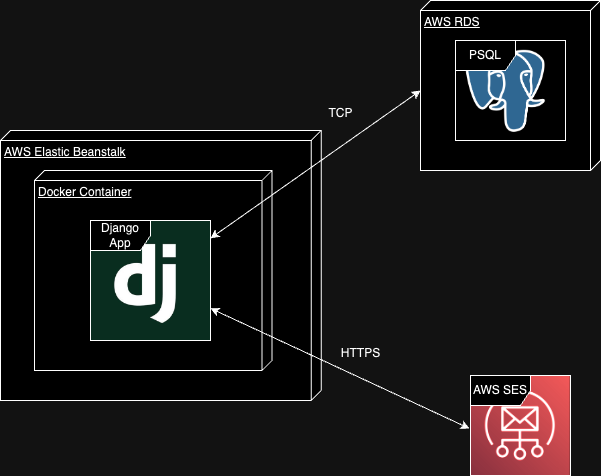
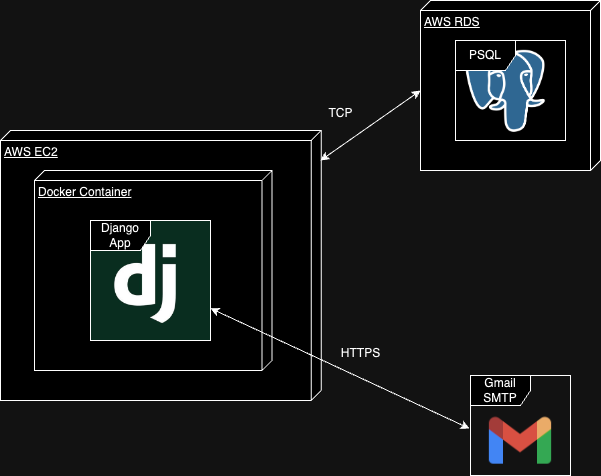
add final details

diff --git a/api/views.py b/api/views.py
@@ -237,6 +237,7 @@ def create_admin_users(request):
     
     if serializer.is_valid():
         user = serializer.save()
+        user.set_password(password)
         user.is_staff = True
         user.save()
         return Response({
@@ -280,7 +281,12 @@ def update_admin_user(request, id):
     except User.DoesNotExist:
         return Response({"detail": "User not found"}, status=status.HTTP_404_NOT_FOUND)
 
-    serializer = UserSerializer(user, data=request.data, partial=True)
+    data = request.data.copy()
+    if 'password' in data:
+        user.set_password(data['password'])
+        data.pop('password')
+
+    serializer = UserSerializer(user, data=data, partial=True)
     
     if serializer.is_valid():
         serializer.save()

diff --git a/documentation/SRS.md b/documentation/SRS.md
@@ -1,5 +1,26 @@
 # Software Requirements Specifications
-
+# Table of Contents
+- [Software Requirements Specifications](#software-requirements-specifications)
+- [Table of Contents](#table-of-contents)
+  - [Objective](#objective)
+  - [Scope](#scope)
+  - [Functional Requirements](#functional-requirements)
+    - [Product management](#product-management)
+    - [User Management](#user-management)
+    - [Notification system](#notification-system)
+    - [Product View Tracking](#product-view-tracking)
+  - [Architecture](#architecture)
+    - [1. Django Application (within Docker Container on EC2)](#1-django-application-within-docker-container-on-ec2)
+    - [2. PostgreSQL Database (AWS RDS)](#2-postgresql-database-aws-rds)
+    - [3. Amazon EC2 (for Hosting)](#3-amazon-ec2-for-hosting)
+    - [4. Gmail SMTP (for Email Services)](#4-gmail-smtp-for-email-services)
+    - [5. HTTPS and TCP Protocols](#5-https-and-tcp-protocols)
+  - [Non-Functional Requirements](#non-functional-requirements)
+    - [1. Maintainability](#1-maintainability)
+      - [2. Scalability](#2-scalability)
+      - [3. Security](#3-security)
+      - [4. Portability](#4-portability)
+      - [5. Compatibility](#5-compatibility)
 ## Objective
 Design and implement a robust and scalable catalog management system with a RESTful API that enables efficient product management, secure user access control, and real-time notifications for product updates, while also tracking product views for future analytics.
 
@@ -36,7 +57,7 @@ This project encompasses the following features and functionalities for a catalo
 
 *   **Real-time Notifications:**
     *   The system will send real-time notifications to all administrators when another administrator makes changes to a product.
-    *   Notification delivery mechanism (e.g., email, in-app notifications) will be determined during implementation.
+  
 
 **4. Product View Tracking**
 
@@ -128,41 +149,42 @@ This project encompasses the following features and functionalities for a catalo
     - The system should make this data accessible for reporting purposes.
 
 ## Architecture
-![Architecture](misc/architecture.png)
 
-### 1. Django Application (within Docker Container)
+### 1. Django Application (within Docker Container on EC2)
+- **Technology Choice**: Django is a robust and mature Python web framework well-suited for building RESTful APIs. Its built-in features for handling HTTP requests, data modeling, and user management align perfectly with the project's needs.
 
-*   **Technology Choice:** Django is a robust and mature Python web framework well-suited for building RESTful APIs. Its built-in features for handling HTTP requests, data modeling, and user management align perfectly with the project's needs.
-*   **Containerization (Docker):** Containerizing the Django application with Docker offers several advantages:
-    *   **Consistency:** Ensures the application runs the same way across different environments (development, testing, production).
-    *   **Portability:**  Makes it easy to deploy the application on various platforms and cloud providers.
-    *   **Isolation:** Isolates the application and its dependencies from the host system, preventing conflicts and improving security.
-    *   **Efficiency:** Docker images are typically lightweight and efficient, optimizing resource utilization.
-*   **API Framework:** Django REST framework (DRF) will be used to build the API. DRF simplifies API development by providing features like serialization, authentication, and API documentation.
+- **Containerization (Docker)**: The Django application is containerized within Docker and deployed on an Amazon EC2 instance. This setup offers several advantages:
+  - **Consistency**: Ensures the application runs the same way across different environments (development, testing, production).
+  - **Portability**: Makes it easy to deploy the application on various platforms and cloud providers.
+  - **Isolation**: Isolates the application and its dependencies from the host system, preventing conflicts and improving security.
+  - **Efficiency**: Docker images are typically lightweight and efficient, optimizing resource utilization.
+
+- **EC2 Instance**: The Docker container runs on an Amazon EC2 instance, which provides flexible computing capacity. EC2 ensures the system can scale by adjusting instance size or adding more instances as needed.
+
+- **API Framework**: Django REST framework (DRF) is used to build the API. DRF simplifies API development by providing features like serialization, authentication, and API documentation.
 
 ### 2. PostgreSQL Database (AWS RDS)
+- **Data Persistence**: PostgreSQL is a powerful and reliable open-source relational database. It is well-suited for storing structured data like product information, user details, and view counts.
+  
+- **Scalability and Availability**: Hosting the database on AWS RDS (Relational Database Service) provides scalability and high availability. RDS handles essential database management tasks, including backups, software patching, and scaling, allowing you to focus on application development.
 
-*   **Data Persistence:** PostgreSQL is a powerful and reliable open-source relational database. It's well-suited for storing structured data like product information, user details, and view counts.
-*   **Scalability and Availability:** Hosting the database on AWS RDS (Relational Database Service) provides scalability and high availability. RDS handles database management tasks, including backups, software patching, and scaling, allowing you to focus on application development.
+### 3. Amazon EC2 (for Hosting)
+- **Cloud Deployment**: Amazon EC2 is used to host the application. EC2 provides flexibility, allowing you to easily scale resources by increasing instance sizes or adding more instances based on demand.
+  
+- **Scalability and Load Balancing**: EC2 can be scaled by adding or upgrading instances manually. Load balancers can also be configured to distribute traffic evenly across instances, improving performance during high traffic periods.
 
-### 3. AWS Elastic Beanstalk
+- **Integration with AWS Ecosystem**: EC2 integrates well with other AWS services like RDS and IAM, allowing you to leverage the full power of the AWS cloud.
 
-*   **Cloud Deployment:** AWS Elastic Beanstalk is a Platform-as-a-Service (PaaS) offering that simplifies deploying and managing web applications and APIs in the cloud.
-*   **Scalability and Load Balancing:** Elastic Beanstalk allows you to easily scale your application by adding or removing instances based on demand. It can also handle load balancing to distribute traffic efficiently across multiple instances.
-*   **Integration with AWS Ecosystem:** Elastic Beanstalk seamlessly integrates with other AWS services like RDS, SES, and IAM, making it easy to leverage the broader AWS ecosystem.
+### 4. Gmail SMTP (for Email Services)
+- **Notification System**: Gmail SMTP is used to send notifications to administrators about product changes. It was chosen because a dedicated domain was not available for AWS SES.
 
-### 4. AWS SES (Simple Email Service)
-
-*   **Notification System:** AWS SES is a cost-effective email sending service that enables you to send notifications to administrators about product changes.
-*   **Reliability and Scalability:** SES is a highly reliable and scalable service, ensuring that notifications are delivered promptly even with a large number of administrators.
+- **Reliability**: While Gmail SMTP is reliable for basic email needs, it is a good fit for smaller-scale deployments and testing environments.
 
 ### 5. HTTPS and TCP Protocols
+- **HTTPS**: Using HTTPS for communication between clients and the Django API ensures secure data transmission and protects sensitive information.
 
-*   **HTTPS:**  Using HTTPS for communication between clients and the Django API ensures secure data transmission and protects sensitive information.
-*   **TCP:** TCP (Transmission Control Protocol) is used for reliable communication between the Django application and the PostgreSQL database.
-
-OK, here are the non-functional requirements for your product catalog API, including details about maintainability, scalability, security, portability, and compatibility.
-
+- **TCP**: TCP (Transmission Control Protocol) is used for reliable communication between the Django application and the PostgreSQL database, ensuring stable and continuous data transmission.
+  
 ## Non-Functional Requirements
 
 ### 1. Maintainability
@@ -191,7 +213,7 @@ OK, here are the non-functional requirements for your product catalog API, inclu
 
 *   **Authorization:**
     *   **Permission Classes:** Django REST framework's permission classes will be used to define fine-grained access control to different API endpoints and resources.
-    *   **Role-Based Access Control (RBAC):**  RBAC will be implemented to assign different roles (e.g., administrator, anonymous user) and grant appropriate permissions based on those roles.
+    *   **Authentication:** Authentication with refresh_token and access_token will be implemented to differentiate roles (authenticated users will be administrators, users without account anonymous users) and grant appropriate permissions based on those roles.
 *   **Password Security:**
     *   **Password Hashing:** Passwords will be stored securely using strong hashing algorithms (e.g., bcrypt, Argon2) to prevent unauthorized access.
     *   **Salting:**  Salts will be used to further protect passwords from brute-force attacks.

diff --git a/README.md b/README.md
@@ -1,2 +1,106 @@
-# zebrands-test
-Repository for completing zebrands backend developer test
+# API Documentation
+# Table of Contents
+- [API Documentation](#api-documentation)
+- [Table of Contents](#table-of-contents)
+  - [How to Test the API](#how-to-test-the-api)
+  - [Requirements Analysis](#requirements-analysis)
+  - [Project Structure](#project-structure)
+  - [Running Locally](#running-locally)
+  - [Architecture Justification](#architecture-justification)
+    - [Why Docker on EC2?](#why-docker-on-ec2)
+    - [Why Gmail SMTP?](#why-gmail-smtp)
+    - [Advantages of This Architecture:](#advantages-of-this-architecture)
+## How to Test the API
+
+To test the API on the deployed page, follow these steps:
+
+1. **Authentication**: 
+   - You need to authenticate using the `/login` endpoint, which will return an `access_token` and a `refresh_token`.
+   - The `access_token` is valid for only 5 minutes. After it expires, you can use the `refresh_token` to request a new `access_token` by calling the `/refresh_token` endpoint.
+   - Use the following credentials to log in:
+     - **Username**: `AdminGR`
+     - **Password**: `admin`
+
+2. **Authorization**: 
+   - Once you have the `access_token`, include it in the `Authorization` header as follows:
+     ```
+     Bearer <access_token>
+     ```
+   - After authorization, you can access the endpoints that require authentication.
+
+## Requirements Analysis
+
+Before starting development, a requirements analysis was made. The requirements are documented in the `documentation` folder in a Markdown file called file called [`SRS.md`](./documentation/SRS.md). This file contains:
+- Objective
+- Scope
+- Functional requirements
+- Architectural design
+- Non-functional requirements
+
+## Project Structure
+
+The project is structured as follows:
+
+- **`server/`**: This folder contains the core Django project.
+  - **`api/`**: This is the Django app within the project.
+    - **`views.py`**: Contains the logic for each endpoint (controller).
+    - **`models.py`**: Defines the models used in the project.
+    - **`serializers.py`**: Includes validation and functions for the models.
+    - **`tests.py`**: Contains unit tests for each endpoint.
+  - **`urls.py`**: Defines the routes for all endpoints within the project.
+  - **`settings.py`**: Holds all project configurations.
+
+## Running Locally
+
+To run the project locally:
+
+1. **Docker Setup**: 
+   - Run the following command to start the services:
+     ```bash
+     docker-compose up --build
+     ```
+   - This will build and start all necessary containers.
+   - To run the services in the background (detached mode), use:
+     ```bash
+     docker-compose up -d
+     ```
+
+2. **Stopping the services**:
+   - When you're done and want to stop the services, run:
+     ```bash
+     docker-compose down
+     ```
+
+3. **Environment Variables**: 
+   - Ensure that your environment variables are set properly. However, note that the `.env` file is not included in the repository for security reasons.
+
+## Architecture Justification
+
+The project uses the following architecture:
+
+- **Amazon EC2**: The project is deployed on an EC2 instance, and the application is containerized within Docker. This ensures consistency across different environments and simplifies deployment.
+  
+- **Django**: The framework is used for developing the API, offering a clean and efficient development process.
+- **PostgreSQL**: Relatinal database that it is well-suited for storing structured data.
+  
+- **Amazon RDS**: Used for database management, providing scalability, reliability, and easy maintenance of the database.
+  
+- **Gmail SMTP**: Used for email services since a domain was not available to configure AWS SES.
+
+### Why Docker on EC2?
+
+Containerizing the application inside Docker on EC2 has several benefits:
+- **Consistency**: Ensures the application runs the same across different environments (local, development, production).
+- **Isolation**: Docker isolates the app and its dependencies, preventing conflicts with other system services.
+- **Scalability**: With EC2, we can easily scale the application as needed, and Docker provides a lightweight, resource-efficient solution to manage the application.
+
+### Why Gmail SMTP?
+
+Gmail was used due to the absence of a dedicated domain, which is required to set up Amazon SES for sending emails. While Gmail is sufficient for testing purposes, AWS SES could be implemented for production if a domain becomes available.
+
+### Advantages of This Architecture:
+- **Scalability**: The architecture is built to scale, with AWS EC2 handling traffic growth and Amazon RDS ensuring the database can expand as needed. The use of Docker further ensures flexibility in managing application instances.
+- **Cost-Effectiveness**: Using cloud services like AWS ensures you only pay for what you use, allowing for flexible scaling without unnecessary costs.
+- **Security**: Environment variables and authentication tokens ensure secure communication between the client and server. Docker also adds an additional layer of isolation, improving security.
+
+For more details of the architecture review the "Architecture Design" section in  [`SRS.md`](./documentation/SRS.md).
